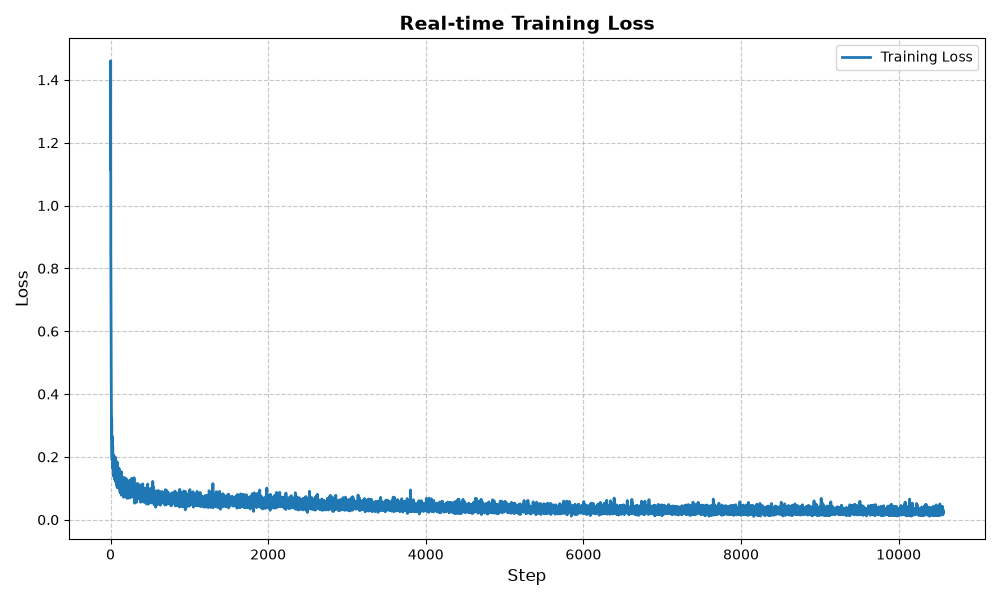
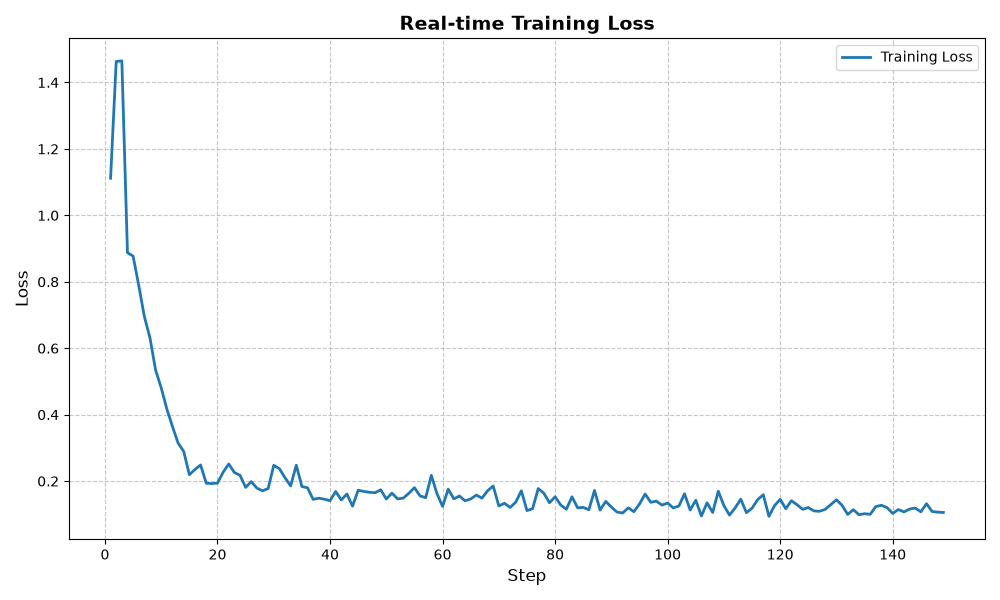
current plot

diff --git a/plot_loss_remote.py b/plot_loss_remote.py
@@ -6,7 +6,7 @@ matplotlib.use('Agg')
 import matplotlib.pyplot as plt
 
 # 設定檔案路徑
-LOG_FILE_PATH = 'runs/train_xl_attention_film_100k/train.jsonl'
+LOG_FILE_PATH = 'runs/train_xl_attention_film_100k_b32/train.jsonl'
 OUTPUT_IMAGE_PATH = 'training_loss_realtime.png'  # 輸出的圖片名稱
 
 steps = []